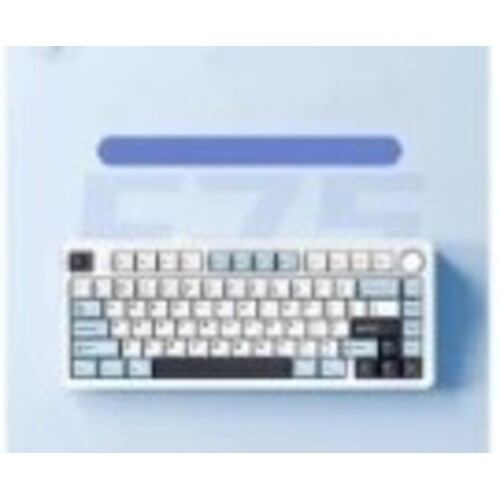
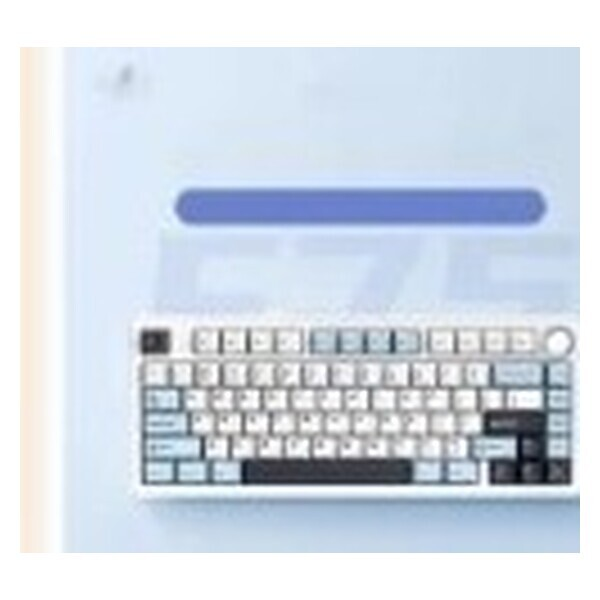
Retire l'avertissement photos/specs et améliore les visuels produit
Supprime l'encart d'avertissement de la page "Notre méthode" annonçant
les photos et caractéristiques comme non définitives.

Recadre plus précisément les 8 vignettes fournisseur depuis les
captures d'écran originales (suppression des produits voisins qui
apparaissaient en bord de cadre) puis les retraite en haute définition
(agrandissement Lanczos + renforcement de netteté, fond blanc uniforme)
pour un rendu plus propre en boutique.

Claude-Session: https://claude.ai/code/session_01Qjr9RnEHEQ2Hp5tiU1ZBN7

diff --git a/app/notre-methode/page.tsx b/app/notre-methode/page.tsx
@@ -56,12 +56,6 @@ export default function MethodPage() {
         ))}
       </div>
 
-      <div className="mx-auto mt-12 max-w-2xl rounded-2xl border border-warning/30 bg-warning/10 p-5 text-sm text-warning">
-        Le catalogue actuel est composé de produits réels, sourcés chez un fournisseur partenaire
-        selon ces critères. Les photos définitives et les caractéristiques détaillées restent à
-        confirmer avant la mise en vente commerciale.
-      </div>
-
       <div className="mt-10 text-center">
         <Button href="/boutique">Voir la sélection actuelle</Button>
       </div>
